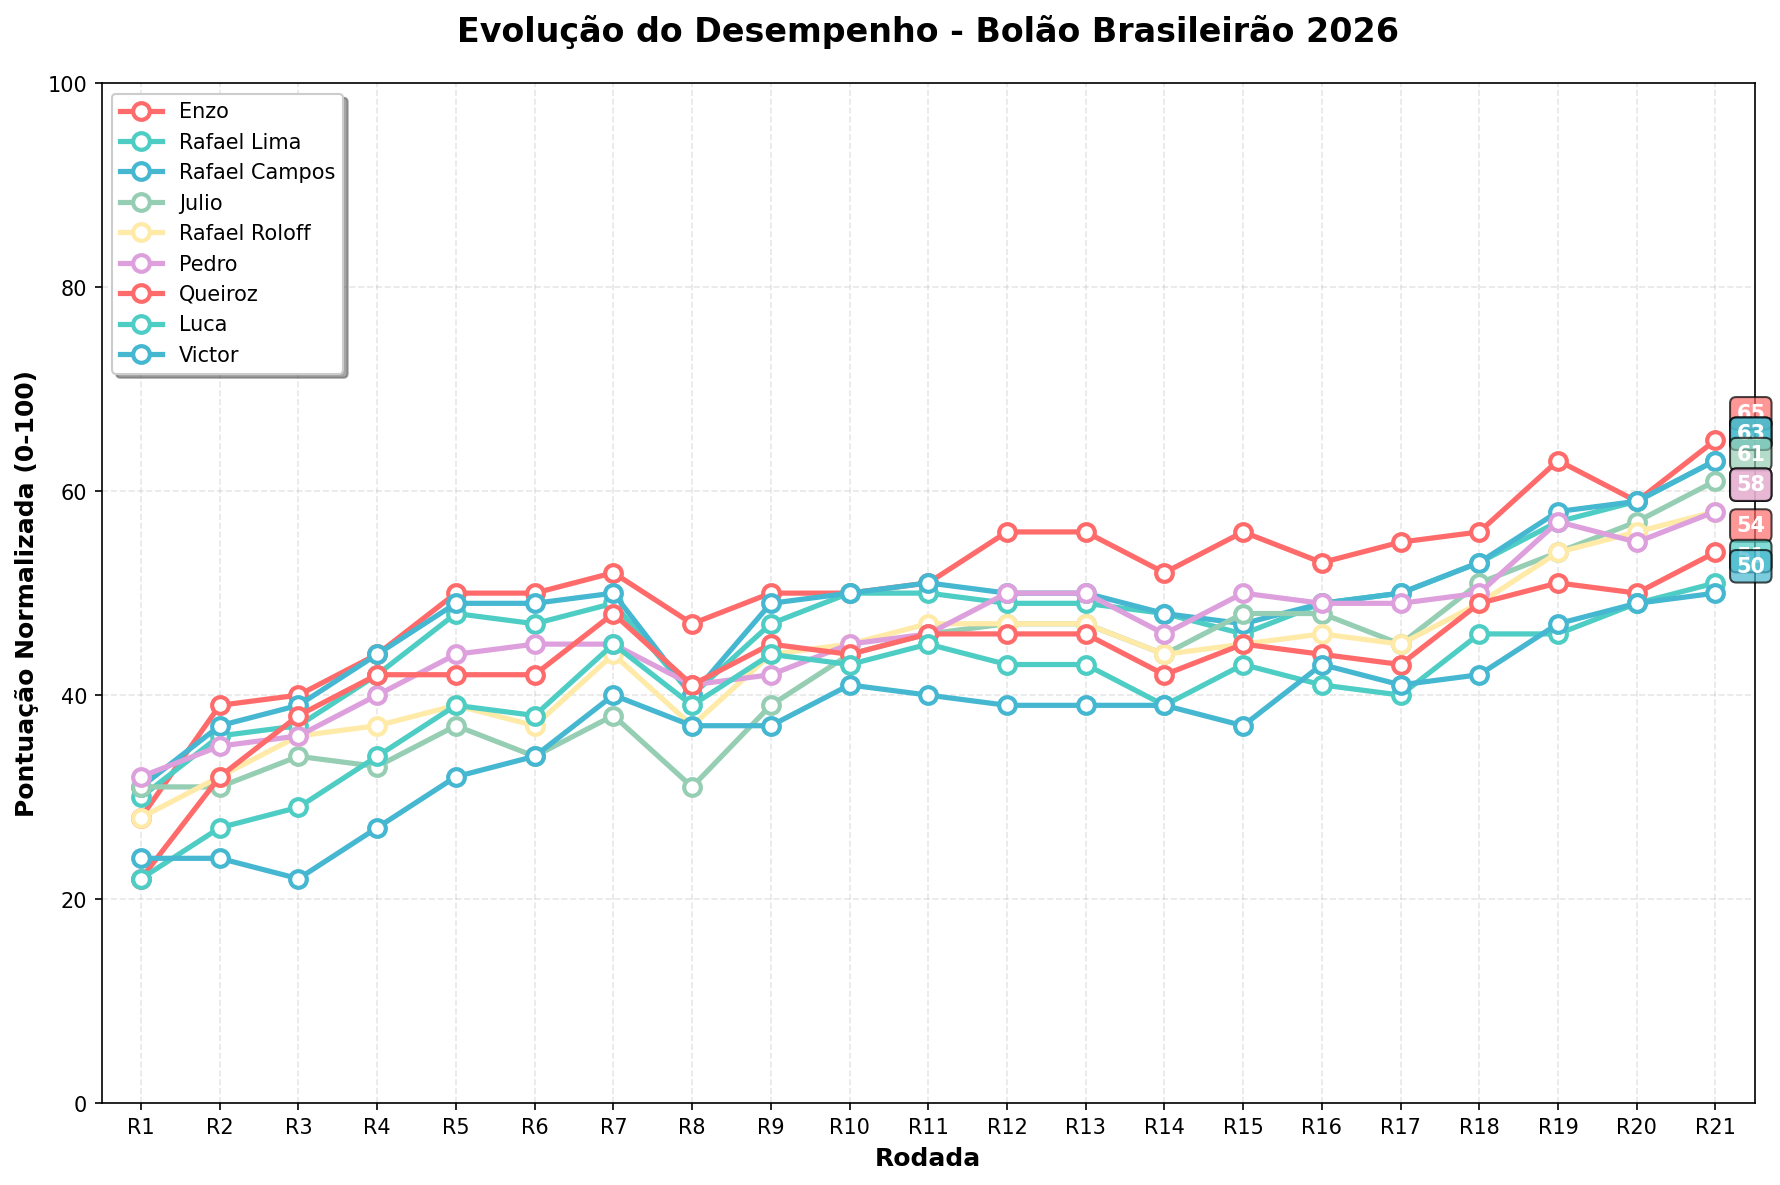
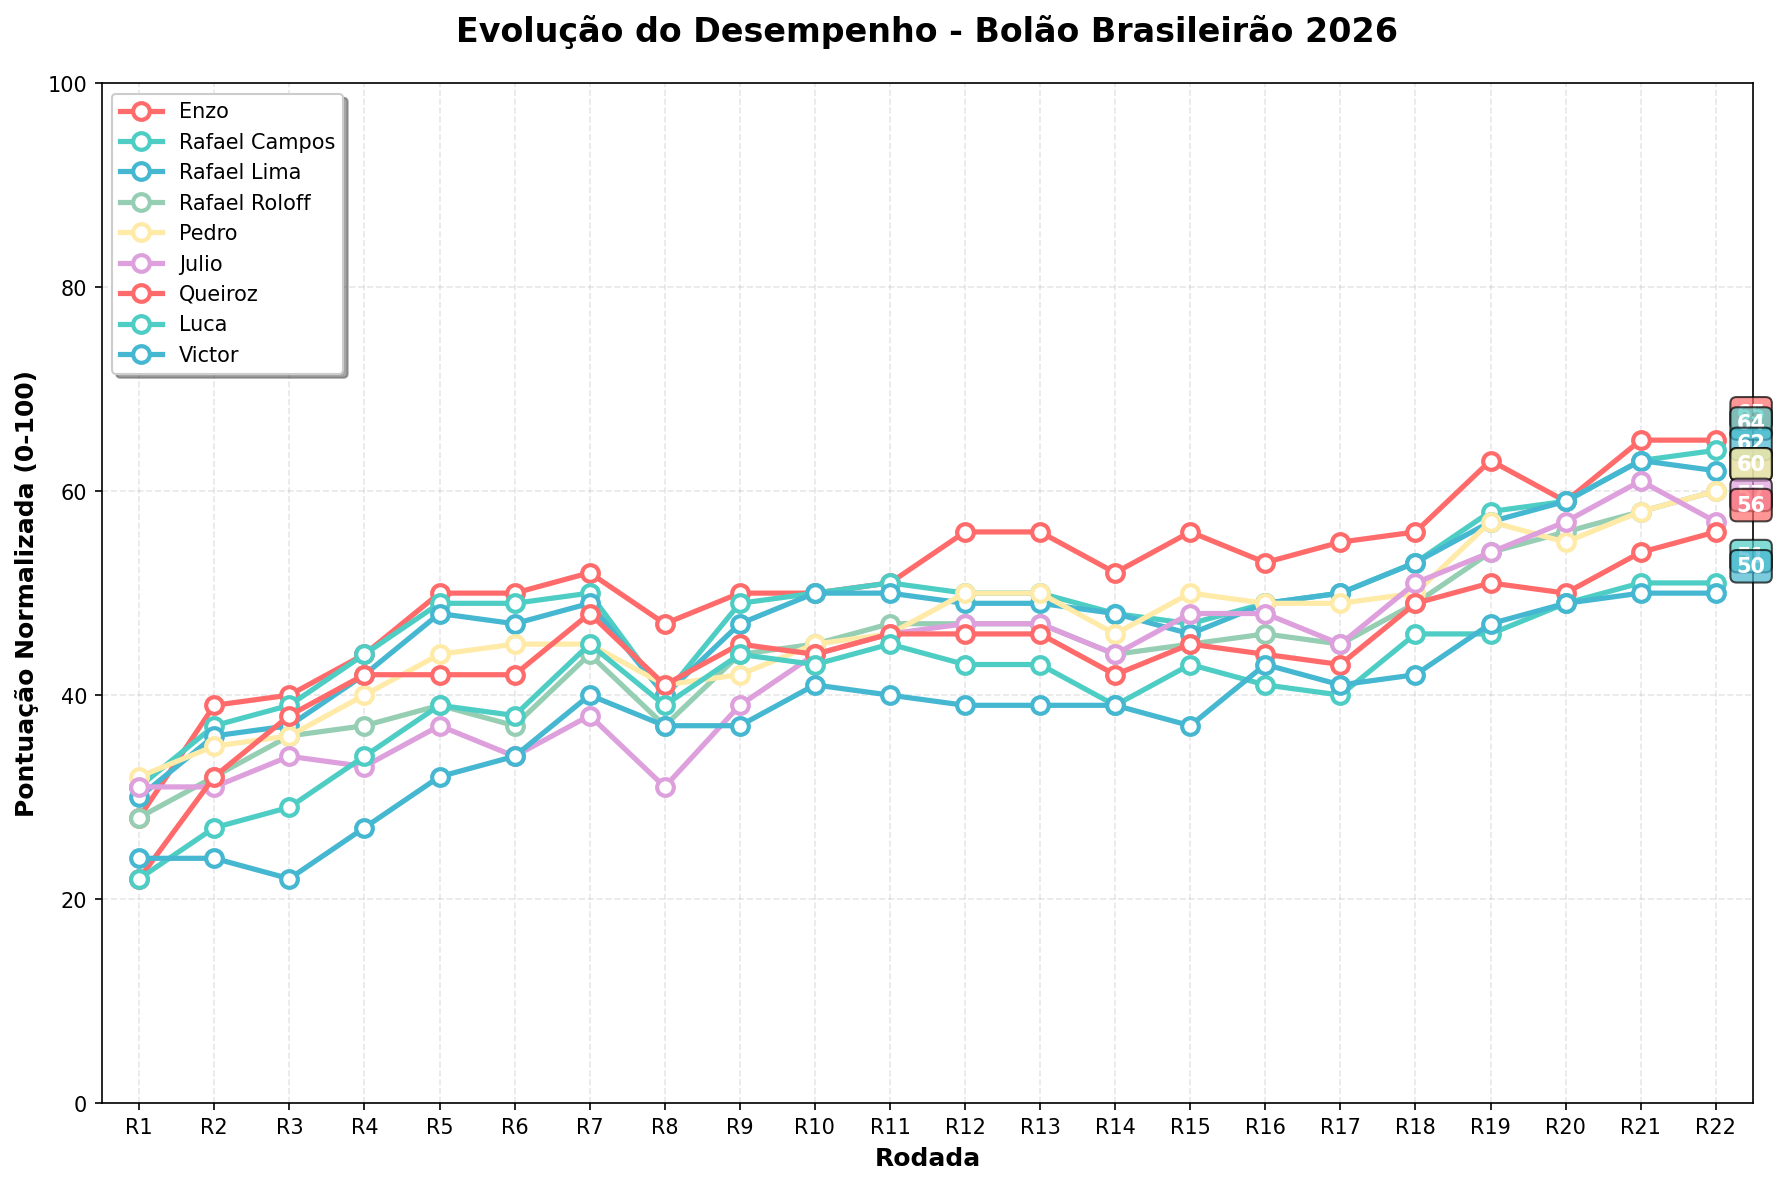
Atualizacao automatica - 10/08/2026 11:00:04,40

diff --git a/README.md b/README.md
@@ -2,41 +2,41 @@
 
 ## 🏆 Resultados Atuais
 
-**Última Atualização:** 2026-07-31 11:00:03
+**Última Atualização:** 2026-08-10 11:00:03
 
-| Time | Real | Enzo | Rafael Lima | Rafael Campos | Julio | Rafael Roloff | Pedro | Queiroz | Luca | Victor |
+| Time | Real | Enzo | Rafael Campos | Rafael Lima | Rafael Roloff | Pedro | Julio | Queiroz | Luca | Victor |
 |------|------|------|------|------|------|------|------|------|------|------|
-| Palmeiras | 1 | 2°(19p) | 3°(18p) | 3°(18p) | 2°(19p) | 2°(19p) | 3°(18p) | 3°(18p) | 3°(18p) | 3°(18p) |
-| Flamengo | 2 | 1°(19p) | 1°(19p) | 1°(19p) | 1°(19p) | 1°(19p) | 2°(20p) | 1°(19p) | 1°(19p) | 1°(19p) |
-| Atlético-PR | 3 | 17°(6p) | 17°(6p) | 17°(6p) | 17°(6p) | 17°(6p) | 18°(5p) | 15°(8p) | 17°(6p) | 13°(10p) |
-| Fluminense | 4 | 4°(20p) | 6°(18p) | 7°(17p) | 7°(17p) | 8°(16p) | 4°(20p) | 7°(17p) | 8°(16p) | 10°(14p) |
-| Bahia | 5 | 5°(20p) | 4°(19p) | 4°(19p) | 5°(20p) | 6°(19p) | 7°(18p) | 4°(19p) | 5°(20p) | 9°(16p) |
-| Bragantino | 6 | 6°(20p) | 10°(16p) | 10°(16p) | 10°(16p) | 13°(13p) | 9°(17p) | 18°(8p) | 13°(13p) | 15°(11p) |
-| Cruzeiro | 7 | 3°(16p) | 2°(15p) | 2°(15p) | 3°(16p) | 3°(16p) | 1°(14p) | 2°(15p) | 2°(15p) | 7°(20p) |
-| Botafogo | 8 | 10°(18p) | 8°(20p) | 9°(19p) | 6°(18p) | 7°(19p) | 5°(17p) | 11°(17p) | 11°(17p) | 5°(17p) |
-| Corinthians | 9 | 8°(19p) | 9°(20p) | 8°(19p) | 9°(20p) | 5°(16p) | 8°(19p) | 6°(17p) | 10°(19p) | 8°(19p) |
-| Atlético-MG | 10 | 12°(18p) | 5°(15p) | 5°(15p) | 4°(14p) | 4°(14p) | 13°(17p) | 9°(19p) | 4°(14p) | 2°(12p) |
-| Coritiba | 11 | 15°(16p) | 16°(15p) | 16°(15p) | 19°(12p) | 14°(17p) | 19°(12p) | 12°(19p) | 20°(11p) | 20°(11p) |
-| São Paulo | 12 | 16°(16p) | 14°(18p) | 12°(20p) | 15°(17p) | 16°(16p) | 15°(17p) | 17°(15p) | 14°(18p) | 16°(16p) |
-| Vitória | 13 | 18°(15p) | 18°(15p) | 18°(15p) | 16°(17p) | 18°(15p) | 17°(16p) | 19°(14p) | 18°(15p) | 17°(16p) |
-| Mirassol | 14 | 13°(19p) | 11°(17p) | 11°(17p) | 8°(14p) | 10°(16p) | 12°(18p) | 8°(14p) | 12°(18p) | 14°(20p) |
-| Santos | 15 | 11°(16p) | 12°(17p) | 13°(18p) | 12°(17p) | 9°(14p) | 11°(16p) | 13°(18p) | 7°(12p) | 11°(16p) |
-| Internacional | 16 | 14°(18p) | 13°(17p) | 15°(19p) | 14°(18p) | 15°(19p) | 14°(18p) | 14°(18p) | 15°(19p) | 6°(10p) |
-| Grêmio | 17 | 7°(10p) | 7°(10p) | 6°(9p) | 18°(19p) | 12°(15p) | 6°(9p) | 5°(8p) | 6°(9p) | 4°(7p) |
-| Vasco | 18 | 9°(11p) | 15°(17p) | 14°(16p) | 11°(13p) | 11°(13p) | 10°(12p) | 10°(12p) | 9°(11p) | 12°(14p) |
-| Remo | 19 | 20°(19p) | 20°(19p) | 20°(19p) | 13°(14p) | 20°(19p) | 16°(17p) | 16°(17p) | 16°(17p) | 19°(20p) |
-| Chapecoense | 20 | 19°(19p) | 19°(19p) | 19°(19p) | 20°(20p) | 19°(19p) | 20°(20p) | 20°(20p) | 19°(19p) | 18°(18p) |
-| **TOTAL** | | **334** | **330** | **330** | **326** | **320** | **320** | **312** | **306** | **304** |
+| Palmeiras | 1 | 2°(19p) | 3°(18p) | 3°(18p) | 2°(19p) | 3°(18p) | 2°(19p) | 3°(18p) | 3°(18p) | 3°(18p) |
+| Flamengo | 2 | 1°(19p) | 1°(19p) | 1°(19p) | 1°(19p) | 2°(20p) | 1°(19p) | 1°(19p) | 1°(19p) | 1°(19p) |
+| Atlético-PR | 3 | 17°(6p) | 17°(6p) | 17°(6p) | 17°(6p) | 18°(5p) | 17°(6p) | 15°(8p) | 17°(6p) | 13°(10p) |
+| Fluminense | 4 | 4°(20p) | 7°(17p) | 6°(18p) | 8°(16p) | 4°(20p) | 7°(17p) | 7°(17p) | 8°(16p) | 10°(14p) |
+| Cruzeiro | 5 | 3°(18p) | 2°(17p) | 2°(17p) | 3°(18p) | 1°(16p) | 3°(18p) | 2°(17p) | 2°(17p) | 7°(18p) |
+| Bahia | 6 | 5°(19p) | 4°(18p) | 4°(18p) | 6°(20p) | 7°(19p) | 5°(19p) | 4°(18p) | 5°(19p) | 9°(17p) |
+| Corinthians | 7 | 8°(19p) | 8°(19p) | 9°(18p) | 5°(18p) | 8°(19p) | 9°(18p) | 6°(19p) | 10°(17p) | 8°(19p) |
+| Bragantino | 8 | 6°(18p) | 10°(18p) | 10°(18p) | 13°(15p) | 9°(19p) | 10°(18p) | 18°(10p) | 13°(15p) | 15°(13p) |
+| Botafogo | 9 | 10°(19p) | 9°(20p) | 8°(19p) | 7°(18p) | 5°(16p) | 6°(17p) | 11°(18p) | 11°(18p) | 5°(16p) |
+| Coritiba | 10 | 15°(15p) | 16°(14p) | 16°(14p) | 14°(16p) | 19°(11p) | 19°(11p) | 12°(18p) | 20°(10p) | 20°(10p) |
+| Atlético-MG | 11 | 12°(19p) | 5°(14p) | 5°(14p) | 4°(13p) | 13°(18p) | 4°(13p) | 9°(18p) | 4°(13p) | 2°(11p) |
+| São Paulo | 12 | 16°(16p) | 12°(20p) | 14°(18p) | 16°(16p) | 15°(17p) | 15°(17p) | 17°(15p) | 14°(18p) | 16°(16p) |
+| Vitória | 13 | 18°(15p) | 18°(15p) | 18°(15p) | 18°(15p) | 17°(16p) | 16°(17p) | 19°(14p) | 18°(15p) | 17°(16p) |
+| Grêmio | 14 | 7°(13p) | 6°(12p) | 7°(13p) | 12°(18p) | 6°(12p) | 18°(16p) | 5°(11p) | 6°(12p) | 4°(10p) |
+| Mirassol | 15 | 13°(18p) | 11°(16p) | 11°(16p) | 10°(15p) | 12°(17p) | 8°(13p) | 8°(13p) | 12°(17p) | 14°(19p) |
+| Internacional | 16 | 14°(18p) | 15°(19p) | 13°(17p) | 15°(19p) | 14°(18p) | 14°(18p) | 14°(18p) | 15°(19p) | 6°(10p) |
+| Santos | 17 | 11°(14p) | 13°(16p) | 12°(15p) | 9°(12p) | 11°(14p) | 12°(15p) | 13°(16p) | 7°(10p) | 11°(14p) |
+| Vasco | 18 | 9°(11p) | 14°(16p) | 15°(17p) | 11°(13p) | 10°(12p) | 11°(13p) | 10°(12p) | 9°(11p) | 12°(14p) |
+| Remo | 19 | 20°(19p) | 20°(19p) | 20°(19p) | 20°(19p) | 16°(17p) | 13°(14p) | 16°(17p) | 16°(17p) | 19°(20p) |
+| Chapecoense | 20 | 19°(19p) | 19°(19p) | 19°(19p) | 19°(19p) | 20°(20p) | 20°(20p) | 20°(20p) | 19°(19p) | 18°(18p) |
+| **TOTAL** | | **334** | **332** | **328** | **324** | **324** | **318** | **316** | **306** | **302** |
 
 ### 🏅 Classificação Atual (pontuação normalizada 0-100)
 
 🥇 **Enzo**: 65 pontos<br>
-🥈 **Rafael Lima**: 63 pontos<br>
-🥉 **Rafael Campos**: 63 pontos<br>
-4. **Julio**: 61 pontos<br>
-5. **Rafael Roloff**: 58 pontos<br>
-6. **Pedro**: 58 pontos<br>
-7. **Queiroz**: 54 pontos<br>
+🥈 **Rafael Campos**: 64 pontos<br>
+🥉 **Rafael Lima**: 62 pontos<br>
+4. **Rafael Roloff**: 60 pontos<br>
+5. **Pedro**: 60 pontos<br>
+6. **Julio**: 57 pontos<br>
+7. **Queiroz**: 56 pontos<br>
 8. **Luca**: 51 pontos<br>
 9. **Victor**: 50 pontos<br>
 
@@ -44,29 +44,29 @@
 
 ![Gráfico de Performance](performance_chart.png)
 
-| Rodada | Enzo | Rafael Lima | Rafael Campos | Julio | Rafael Roloff | Pedro | Queiroz | Luca | Victor |
+| Rodada | Enzo | Rafael Campos | Rafael Lima | Rafael Roloff | Pedro | Julio | Queiroz | Luca | Victor |
 |-------|-------|-------|-------|-------|-------|-------|-------|-------|-------|
-| R12 | 56 | 49 | 50 | 47 | 47 | 50 | 46 | 43 | 39 |
-| R13 | 56 | 49 | 50 | 47 | 47 | 50 | 46 | 43 | 39 |
-| R14 | 52 | 48 | 48 | 44 | 44 | 46 | 42 | 39 | 39 |
-| R15 | 56 | 46 | 47 | 48 | 45 | 50 | 45 | 43 | 37 |
-| R16 | 53 | 49 | 49 | 48 | 46 | 49 | 44 | 41 | 43 |
-| R17 | 55 | 50 | 50 | 45 | 45 | 49 | 43 | 40 | 41 |
-| R18 | 56 | 53 | 53 | 51 | 49 | 50 | 49 | 46 | 42 |
-| R19 | 63 | 57 | 58 | 54 | 54 | 57 | 51 | 46 | 47 |
-| R20 | 59 | 59 | 59 | 57 | 56 | 55 | 50 | 49 | 49 |
-| R21 | 65 | 63 | 63 | 61 | 58 | 58 | 54 | 51 | 50 |
+| R13 | 56 | 50 | 49 | 47 | 50 | 47 | 46 | 43 | 39 |
+| R14 | 52 | 48 | 48 | 44 | 46 | 44 | 42 | 39 | 39 |
+| R15 | 56 | 47 | 46 | 45 | 50 | 48 | 45 | 43 | 37 |
+| R16 | 53 | 49 | 49 | 46 | 49 | 48 | 44 | 41 | 43 |
+| R17 | 55 | 50 | 50 | 45 | 49 | 45 | 43 | 40 | 41 |
+| R18 | 56 | 53 | 53 | 49 | 50 | 51 | 49 | 46 | 42 |
+| R19 | 63 | 58 | 57 | 54 | 57 | 54 | 51 | 46 | 47 |
+| R20 | 59 | 59 | 59 | 56 | 55 | 57 | 50 | 49 | 49 |
+| R21 | 65 | 63 | 63 | 58 | 58 | 61 | 54 | 51 | 50 |
+| R22 | 65 | 64 | 62 | 60 | 60 | 57 | 56 | 51 | 50 |
 
 **Tendência (últimas 2 medições):**
-- **Enzo**: 📈 +6
-- **Rafael Lima**: 📈 +4
-- **Rafael Campos**: 📈 +4
-- **Julio**: 📈 +4
+- **Enzo**: ➡ =0
+- **Rafael Campos**: 📈 +1
+- **Rafael Lima**: 📉 -1
 - **Rafael Roloff**: 📈 +2
-- **Pedro**: 📈 +3
-- **Queiroz**: 📈 +4
-- **Luca**: 📈 +2
-- **Victor**: 📈 +1
+- **Pedro**: 📈 +2
+- **Julio**: 📉 -4
+- **Queiroz**: 📈 +2
+- **Luca**: ➡ =0
+- **Victor**: ➡ =0
 
 ## 🎯 Sistema de Pontuação
 
